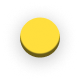
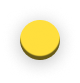
more progress

Changed region(s): [[0.25, 0.1975, 0.75, 0.7407]]

diff --git a/src/components/Highway/scenes/MainScene.ts b/src/components/Highway/scenes/MainScene.ts
@@ -1,8 +1,16 @@
-import { Engine, ImageSource, Scene, vec } from "excalibur";
-import { EventData } from "../../../types/songs";
+import { ImageSource, Scene, vec } from "excalibur";
 import BaseNote from "../actors/BaseNote";
+import HiHatNote from "../actors/HiHatNote";
+import SnareNote from "../actors/SnareNote";
+import { GAME_CONFIG } from "../config";
 import HighwayEngine from "../engine";
 import { MusicFile } from "../helpers/loaders";
+
+type ProcessedNote = {
+  time: number;
+  class: string;
+  posX: number;
+};
 
 class MainScene extends Scene {
   static BATCH_SIZE_SECONDS = 4;
@@ -14,11 +22,12 @@ class MainScene extends Scene {
 
   counter: number = 0;
   sprites: Record<string, ImageSource> = {};
-  notes: Record<number, EventData[]> = {};
+  notes: Record<number, ProcessedNote[]> = {};
+  instruments: string[] = [];
   mainTrack: MusicFile | null = null;
   lastBatchNumber: number = -1;
 
-  public onPostUpdate(engine: Engine, elapsed: number): void {
+  public onPostUpdate(engine: HighwayEngine, elapsed: number): void {
     super.onPostUpdate(engine, elapsed);
 
     const currentTime =
@@ -34,7 +43,6 @@ class MainScene extends Scene {
       if (notes) {
         notes.forEach((note) => {
           // TODO: select based on the instrument. for now random between 100 and 300
-          const posX = Math.floor(Math.random() * 200) + 100;
 
           // Should be 0 but fixed based on the remaining time of the note to be played. using the BaseNote.NOTE_SPEED, the time property of the note and the current time of the track.
           console.log("Current time: ", currentTime);
@@ -44,8 +52,22 @@ class MainScene extends Scene {
             0 + (currentTime - Number(note.time)) * BaseNote.NOTE_SPEED * 1000;
           console.log("Note posY: ", posY);
 
-          const baseNote = new BaseNote(vec(posX, posY), "Circle", "Yellow");
-          this.add(baseNote);
+          let baseNote: BaseNote | null = null;
+          switch (note.class) {
+            case "BP_HiHat_C":
+              baseNote = new HiHatNote(vec(note.posX, posY));
+              break;
+            case "BP_Snare_C":
+              baseNote = new SnareNote(vec(note.posX, posY));
+              break;
+            default:
+              baseNote = new BaseNote(vec(note.posX, posY));
+              break;
+          }
+
+          if (baseNote) {
+            this.add(baseNote);
+          }
         });
       }
       console.groupEnd();
@@ -58,14 +80,30 @@ class MainScene extends Scene {
   public onActivate() {
     const engine = this.engine as HighwayEngine;
 
-    // preprocess the song events to add it in this.notes with the key as the batch number.
+    // load instruments used in the song
+    this.instruments = GAME_CONFIG.instrumentsOrder.filter((instrument) =>
+      engine.song.events.some((event) => event.name.startsWith(instrument))
+    );
 
+    // preprocess the song events to add it in this.notes with the key as the batch number.
     engine.song.events.forEach((event) => {
       const batchNumber = MainScene.getBatchNumber(event.time);
       if (!this.notes[batchNumber]) {
         this.notes[batchNumber] = [];
       }
-      this.notes[batchNumber].push(event);
+
+      const instrumentClass = event.name.substring(0, event.name.lastIndexOf("_")),
+
+      instrumentIndex = this.instruments.indexOf(instrumentClass);
+
+
+      const newNote: ProcessedNote = {
+        time: Number(event.time),
+        class: instrumentClass,
+        posX: GAME_CONFIG.width / (this.instruments.length) * (instrumentIndex) + GAME_CONFIG.width / (this.instruments.length * 2),
+      };
+
+      this.notes[batchNumber].push(newNote);
     });
 
     // start all tracks

diff --git a/src/components/Highway/actors/resources.ts b/src/components/Highway/actors/resources.ts
@@ -1,8 +1,30 @@
 import { ImageSource } from "excalibur";
-import noteCircleYellow from "../../../assets/NoteCircleYellow.png";
 
+import noteCircleCyan from "../../../assets/NoteCircleCyan.png";
+import noteCircleOrange from "../../../assets/NoteCircleOrange.png";
+import noteCirclePurple from "../../../assets/NoteCirclePurple.png";
+import noteCircleYellow from "../../../assets/NoteCircleYellow.png";
+import noteRectCyan from "../../../assets/NoteRectRed.png";
+import noteRectGreen from "../../../assets/NoteRectGreen.png";
+import noteRectPurple from "../../../assets/NoteRectPurple.png";
+import noteRectRed from "../../../assets/NoteRectRed.png";
+
+const noteCircleCyanImg = new ImageSource(noteCircleCyan);
+const noteCircleOrangeImg = new ImageSource(noteCircleOrange);
+const noteCirclePurpleImg = new ImageSource(noteCirclePurple);
 const noteCircleYellowImg = new ImageSource(noteCircleYellow);
+const noteRectCyanImg = new ImageSource(noteRectCyan);
+const noteRectGreenImg = new ImageSource(noteRectGreen);
+const noteRectPurpleImg = new ImageSource(noteRectPurple);
+const noteRectRedImg = new ImageSource(noteRectRed);
 
 export const Resources = {
+  NoteCircleCyan: noteCircleCyanImg,
+  NoteCircleOrange: noteCircleOrangeImg,
+  NoteCirclePurple: noteCirclePurpleImg,
   NoteCircleYellow: noteCircleYellowImg,
+  NoteRectCyan: noteRectCyanImg,
+  NoteRectGreen: noteRectGreenImg,
+  NoteRectPurple: noteRectPurpleImg,
+  NoteRectRed: noteRectRedImg,
 } as const;

diff --git a/src/components/Highway/actors/BaseNote.ts b/src/components/Highway/actors/BaseNote.ts
@@ -1,33 +1,27 @@
-import { Actor, Sprite, vec, Vector } from "excalibur";
-import { Resources } from "./resources";
+import { Actor, vec, Vector } from "excalibur";
 import { GAME_CONFIG } from "../config";
-
-type NoteShape = "Circle" | "Rect" | "Line";
-
-type NoteColor = "Red" | "Yellow";
 
 class BaseNote extends Actor {
   static ANIM_DURATION = 2000; // note anim duration in ms
   static NOTE_SPEED = GAME_CONFIG.height / BaseNote.ANIM_DURATION;
-  shape: NoteShape;
-  noteColor: NoteColor;
 
-  constructor(pos: Vector, shape: NoteShape, color: NoteColor) {
+  constructor(pos: Vector) {
     super({
       pos,
       anchor: Vector.Half,
     });
-    this.shape = shape;
-    this.noteColor = color;
   }
 
   public onInitialize() {
-    const sprite = Sprite.from(Resources.NoteCircleYellow);
-    this.graphics.use(sprite);
     const fixedDistance = GAME_CONFIG.height - this.pos.y;
     const fixedAnimDuration = fixedDistance / BaseNote.NOTE_SPEED;
 
-    this.actions.moveTo({pos: vec(this.pos.x, GAME_CONFIG.height), duration: fixedAnimDuration}).die();
+    this.actions
+      .moveTo({
+        pos: vec(this.pos.x, GAME_CONFIG.height),
+        duration: fixedAnimDuration,
+      })
+      .die();
   }
 }
 

diff --git a/src/components/Highway/actors/HiHatNote.ts b/src/components/Highway/actors/HiHatNote.ts
@@ -1,0 +1,18 @@
+import { Sprite, Vector } from "excalibur";
+import BaseNote from "./BaseNote";
+import { Resources } from "./resources";
+
+class HiHatNote extends BaseNote {
+  constructor(pos: Vector) {
+    super(pos);
+  }
+
+  public onInitialize() {
+    const sprite = Sprite.from(Resources.NoteCircleCyan);
+    this.graphics.use(sprite);
+
+    super.onInitialize();
+  }
+}
+
+export default HiHatNote;

diff --git a/src/components/Highway/actors/SnareNote.ts b/src/components/Highway/actors/SnareNote.ts
@@ -1,0 +1,18 @@
+import { Sprite, Vector } from "excalibur";
+import BaseNote from "./BaseNote";
+import { Resources } from "./resources";
+
+class SnareNote extends BaseNote {
+  constructor(pos: Vector) {
+    super(pos);
+  }
+
+  public onInitialize() {
+    const sprite = Sprite.from(Resources.NoteRectRed);
+    this.graphics.use(sprite);
+
+    super.onInitialize();
+  }
+}
+
+export default SnareNote;

diff --git a/src/components/Highway/config.ts b/src/components/Highway/config.ts
@@ -1,4 +1,15 @@
 export const GAME_CONFIG = {
   width: 450,
   height: 800,
+  instrumentsOrder: [
+    "BP_HiHat_C",
+    "BP_Crash15_C",
+    "BP_Snare_C",
+    "BP_Tom1_C",
+    "BP_Tom2_C",
+    "BP_FloorTom_C",
+    "BP_Crash17_C",
+    "BP_Ride17_C",
+    "BP_Ride20_C",
+  ],
 };
